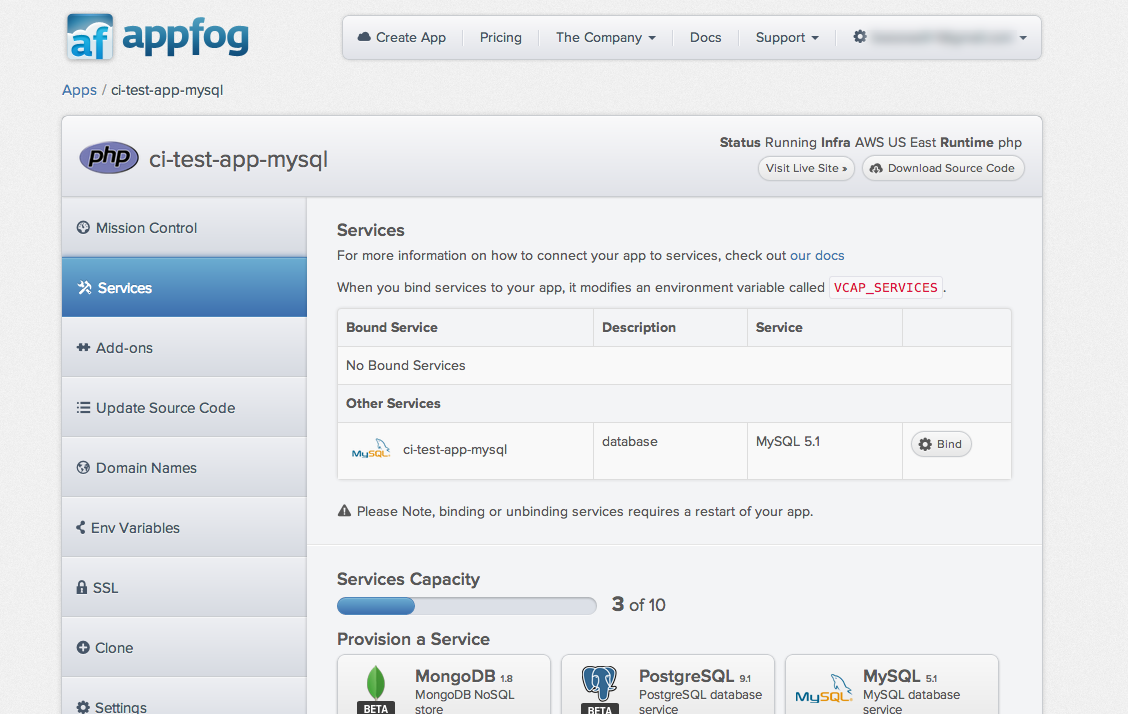
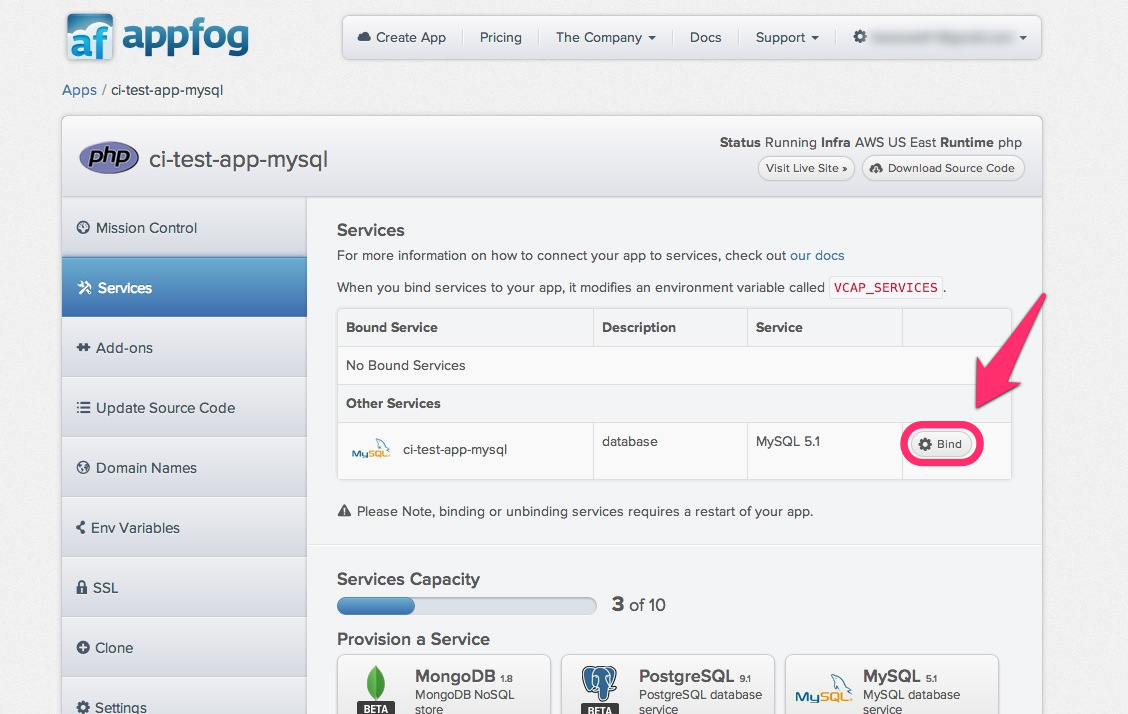
Publishing AppFog CI instructions post

diff --git a/_posts/2012-12-18-creating_a_codeigniter_app_on_app_fog.md b/_posts/2012-12-18-creating_a_codeigniter_app_on_app_fog.md
@@ -7,7 +7,7 @@ image:
   alt:
   attribution:
 layout: post
-published: false
+published: true
 tags:
 -
 title: Creating a Codeigniter App on AppFog
@@ -182,3 +182,37 @@ $autoload['libraries'] = array('database');
 Go back to your app dashboard and visit your live site.  If you still see the same default CI page, then you've successfully connected your MySQL database!
 
 ## 7. Setup phpMyAdmin
+
+AppFog treats phpMyAdmin as it's own app, similar to how it treats your Codeigniter Install.  Aside from tunnelling into your MySQL database, phpMyAdmin will be your best way to interface with your database for now.
+
+Goto your dashboard and click on **Create App** in the top navigation
+
+Select phpMyAdmin from the application list
+
+<a href="/img/appfog11.png"><img src="/img/appfog11.png" /></a>
+
+Same as you did for your PHP app, select your preferred infrastructure... once again I'm using AWS US East.  Then name your phpMyAdmin install... I just named mine "ci-test-app-mysql".
+
+<a href="/img/appfog12.png"><img src="/img/appfog12.png" /></a>
+
+Once your app is created, from your dashboard click on **Services** on the side.  You will see your MySQL database you created earlier.  Click the **Bind** button to bind this service to your phpMyAdmin installation.
+
+<a href="/img/appfog13.png"><img src="/img/appfog13.png" /></a>
+
+You'll also need to add a password to your phpMyAdmin app. Click on the **Env Variables** tab on the left. Create an environment variable called `PMA_PASSWORD` and set it to whatever password you want.
+
+You can set the value to whatever you want as your phpMyAdmin password. Your default phpMyAdmin username is the email address your AppFog account is under, but you can optionally override that to something of your choice by creating another environment variable called `PMA_USERNAME`.
+
+As an example I've set both my username and password to "root".  I do not recommend using these values at all by the way.
+
+<a href="/img/appfog14.png"><img src="/img/appfog14.png" /></a>
+
+So now you will be able to login to your phpMyAdmin installation to manage your database by clicking on the **Visit Live Site** link on your phpMyAdmin app dashboard.
+
+<a href="/img/appfog15.png"><img src="/img/appfog15.png" /></a>
+
+<a href="/img/appfog16.png"><img src="/img/appfog16.png" /></a>
+
+## You're all set!
+
+Enjoy using AppFog to host your Codeigniter app.
